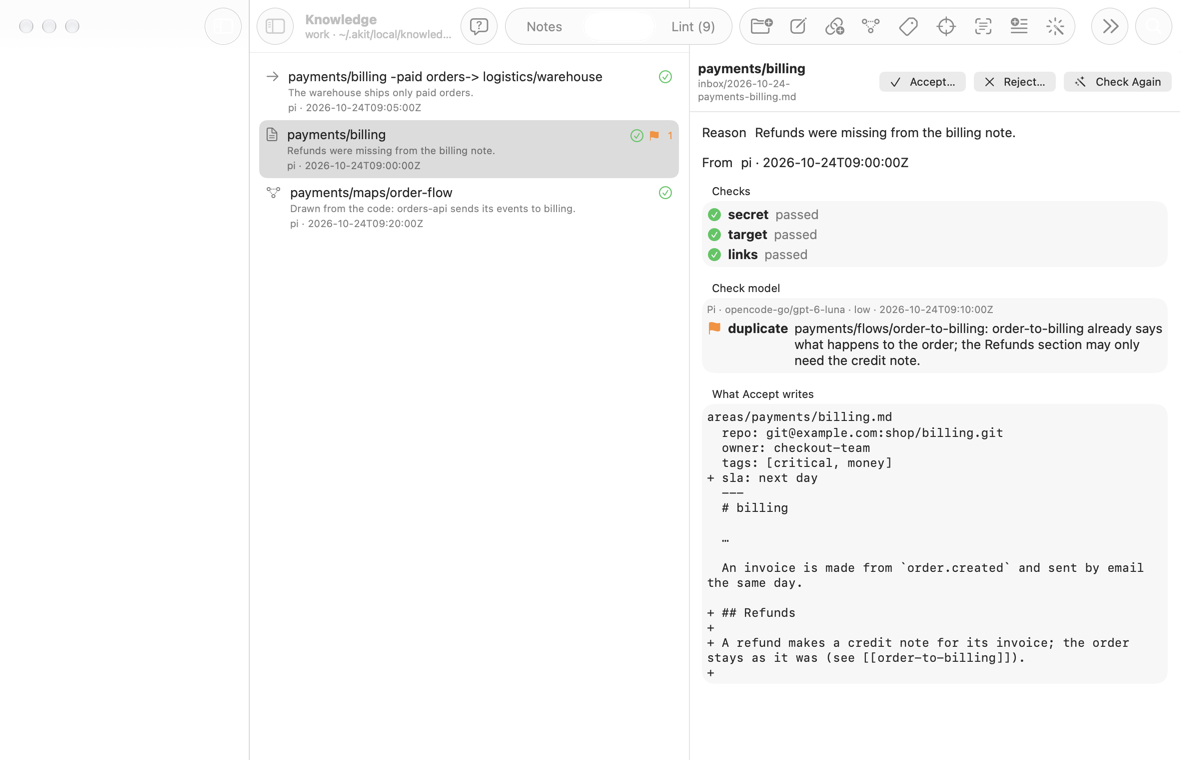
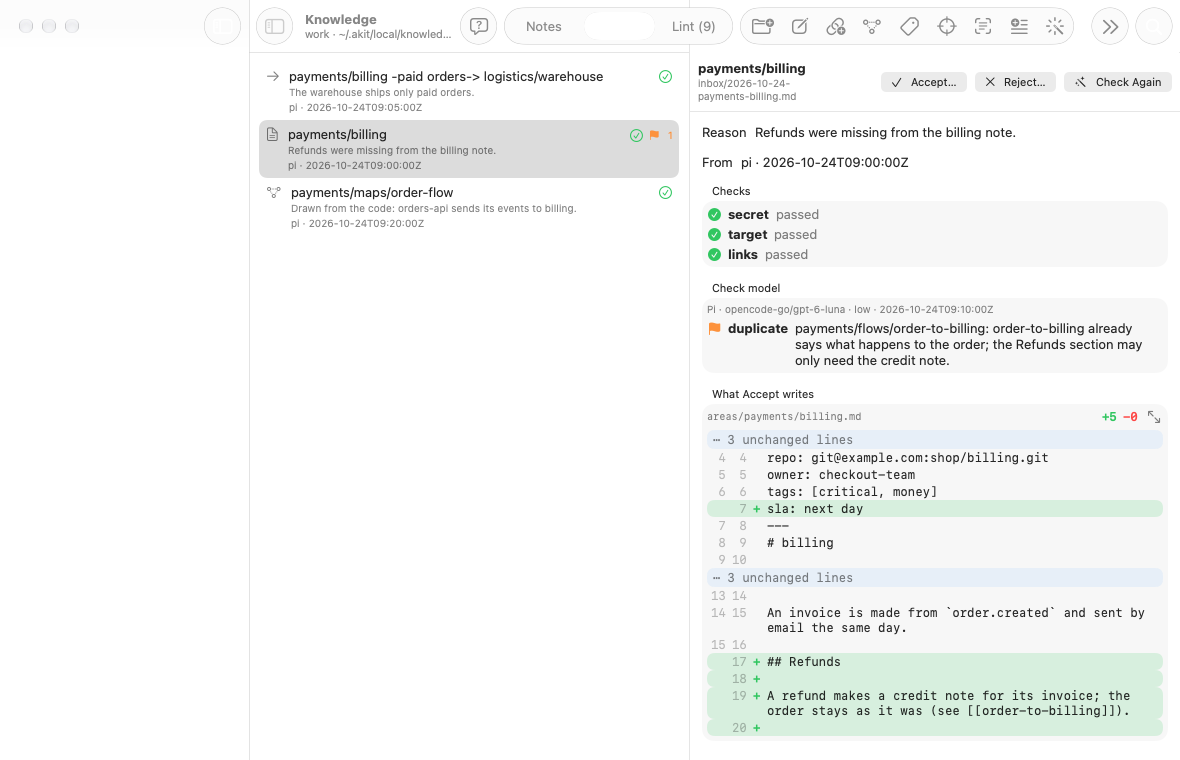
Inbox: coloured git-style diff and Open Diff Window
The proposal's change was plain text with + and - signs, hard to read.
Now added lines are green, removed red, with line numbers and folded
unchanged runs, in the Inbox, Accept Proposal and the Ask Pi card.
Open Diff Window shows it in its own window (Changes or Whole Note,
text size), to read on a large screen.

diff --git a/AKit/Knowledge/ProposalDiffView.swift b/AKit/Knowledge/ProposalDiffView.swift
@@ -1,0 +1,221 @@
+import AKitFoundation
+import AKitKnowledge
+import SwiftUI
+
+/// What Accept of a note proposal changes, as the diff window shows it: the note's text now and
+/// the text Accept writes. Codable, so Open Diff Window can pass it to its own window.
+struct ProposalDiff: Codable, Hashable {
+    let title: String
+    let path: String
+    let old: String
+    let new: String
+
+    init(title: String, plan: KnowledgeInbox.Plan) {
+        self.title = title
+        path = plan.original == nil ? "\(plan.notePath) (new" + (plan.newArea ? ", in a new area" : "") + ")" : plan.notePath
+        old = plan.original.flatMap { String(data: $0, encoding: .utf8) } ?? ""
+        new = plan.planned
+    }
+
+    var lines: [TextDiff.Line] { TextDiff.lines(from: old, to: new) }
+}
+
+/// A diff coloured like git: added lines green with +, removed lines red with −, unchanged ones
+/// plain, each with its line number before and after. Changes only: 3 unchanged lines around each
+/// change, the rest folded into "⋯ N unchanged lines"; whole: every line of the note.
+struct ColoredDiffView: View {
+    let lines: [TextDiff.Line]
+    var whole = false
+    var font: Font = .callout.monospaced()
+
+    enum Row: Hashable {
+        case line(TextDiff.Line, old: Int?, new: Int?)
+        case gap(Int)
+    }
+
+    var body: some View {
+        let rows = Self.rows(lines, whole: whole)
+        let digits = String(max(lines.count, 1)).count
+        LazyVStack(alignment: .leading, spacing: 0) {
+            ForEach(Array(rows.enumerated()), id: \.offset) { _, row in
+                switch row {
+                case .line(let line, let old, let new):
+                    DiffLineRow(line: line, old: old, new: new, digits: digits)
+                case .gap(let count):
+                    Text("⋯ \(count) unchanged line\(count == 1 ? "" : "s")")
+                        .foregroundStyle(.secondary)
+                        .padding(.vertical, 2)
+                        .padding(.leading, 6)
+                        .frame(maxWidth: .infinity, alignment: .leading)
+                        .background(.blue.opacity(0.08))
+                }
+            }
+        }
+        .font(font)
+    }
+
+    /// The rows to show, with line numbers counted over the whole diff.
+    static func rows(_ lines: [TextDiff.Line], whole: Bool) -> [Row] {
+        var numbered: [Row] = []
+        var old = 0, new = 0
+        for line in lines {
+            switch line {
+            case .same: old += 1; new += 1; numbered.append(.line(line, old: old, new: new))
+            case .removed: old += 1; numbered.append(.line(line, old: old, new: nil))
+            case .added: new += 1; numbered.append(.line(line, old: nil, new: new))
+            }
+        }
+        if whole { return numbered }
+        let changed = lines.indices.filter { if case .same = lines[$0] { false } else { true } }
+        var shown = Set<Int>()
+        for index in changed { shown.formUnion(max(0, index - 3)...min(lines.count - 1, index + 3)) }
+        var rows: [Row] = []
+        var hidden = 0
+        for index in lines.indices {
+            if shown.contains(index) {
+                if hidden > 0 { rows.append(.gap(hidden)); hidden = 0 }
+                rows.append(numbered[index])
+            } else {
+                hidden += 1
+            }
+        }
+        if hidden > 0, !rows.isEmpty { rows.append(.gap(hidden)) }
+        return rows
+    }
+
+    /// Added and removed line counts, for "+3 −1".
+    static func counts(_ lines: [TextDiff.Line]) -> (added: Int, removed: Int) {
+        lines.reduce(into: (0, 0)) { counts, line in
+            switch line {
+            case .added: counts.0 += 1
+            case .removed: counts.1 += 1
+            case .same: break
+            }
+        }
+    }
+}
+
+private struct DiffLineRow: View {
+    let line: TextDiff.Line
+    let old: Int?
+    let new: Int?
+    let digits: Int
+
+    var body: some View {
+        let (sign, text, tint): (String, String, Color?) = switch line {
+        case .same(let text): (" ", text, nil)
+        case .added(let text): ("+", text, .green)
+        case .removed(let text): ("−", text, .red)
+        }
+        HStack(alignment: .firstTextBaseline, spacing: 0) {
+            Text(number(old)).foregroundStyle(.tertiary)
+            Text(number(new)).foregroundStyle(.tertiary).padding(.leading, 6)
+            Text(sign).foregroundStyle(tint ?? .secondary).bold().padding(.horizontal, 6)
+            // An empty line keeps its height.
+            Text(text.isEmpty ? " " : text)
+                .textSelection(.enabled)
+                .frame(maxWidth: .infinity, alignment: .leading)
+        }
+        .padding(.vertical, 1)
+        .padding(.leading, 4)
+        .background(tint.map { $0.opacity(0.16) } ?? .clear)
+    }
+
+    private func number(_ value: Int?) -> String {
+        let text = value.map(String.init) ?? ""
+        return String(repeating: " ", count: max(0, digits - text.count)) + text
+    }
+}
+
+/// "+3 −1": the added lines in green, the removed ones in red.
+struct DiffCounts: View {
+    let lines: [TextDiff.Line]
+
+    var body: some View {
+        let counts = ColoredDiffView.counts(lines)
+        HStack(spacing: 6) {
+            Text("+\(counts.added)").foregroundStyle(.green)
+            Text("−\(counts.removed)").foregroundStyle(.red)
+        }
+        .font(.callout.monospaced().bold())
+        .help("\(counts.added) line\(counts.added == 1 ? "" : "s") added, \(counts.removed) removed")
+    }
+}
+
+/// Open Diff Window: the proposal's diff in its own window, big enough to read; Changes or
+/// Whole Note, and a larger or smaller text.
+struct ProposalDiffWindow: View {
+    static let id = "proposal-diff"
+    let diff: ProposalDiff
+    @AppStorage("proposalDiffWhole") private var whole = false
+    @AppStorage("proposalDiffSize") private var size = 14.0
+
+    var body: some View {
+        let lines = diff.lines
+        VStack(spacing: 0) {
+            HStack(spacing: 12) {
+                VStack(alignment: .leading, spacing: 1) {
+                    Text(diff.title).font(.headline).lineLimit(1)
+                    Text(diff.path).font(.caption.monospaced()).foregroundStyle(.secondary).textSelection(.enabled)
+                }
+                Spacer()
+                DiffCounts(lines: lines)
+                Picker("Show", selection: $whole) {
+                    Text("Changes").tag(false)
+                    Text("Whole Note").tag(true)
+                }
+                .pickerStyle(.segmented)
+                .labelsHidden()
+                .fixedSize()
+                .help("Changes: the changed lines with 3 lines around them. Whole Note: every line of the note, the changes marked")
+                ControlGroup {
+                    Button("Smaller Text", systemImage: "textformat.size.smaller") { size = max(10, size - 1) }
+                        .keyboardShortcut("-")
+                    Button("Larger Text", systemImage: "textformat.size.larger") { size = min(28, size + 1) }
+                        .keyboardShortcut("=")
+                }
+                .fixedSize()
+                .help("Smaller (⌘−) or larger (⌘=) text")
+            }
+            .padding(10)
+            Divider()
+            ScrollView {
+                ColoredDiffView(lines: lines, whole: whole, font: .system(size: size, design: .monospaced))
+                    .padding(8)
+            }
+        }
+        .frame(minWidth: 600, minHeight: 400)
+        .navigationTitle(diff.title)
+    }
+}
+
+/// A note proposal's diff in a panel: the note's path, "+3 −1", Open Diff Window, and the
+/// coloured changes.
+struct ProposalDiffBox: View {
+    @Environment(\.openWindow) private var openWindow
+    let diff: ProposalDiff
+    var font: Font = .callout.monospaced()
+
+    init(title: String, plan: KnowledgeInbox.Plan, font: Font = .callout.monospaced()) {
+        diff = ProposalDiff(title: title, plan: plan)
+        self.font = font
+    }
+
+    var body: some View {
+        let lines = diff.lines
+        VStack(alignment: .leading, spacing: 6) {
+            HStack(spacing: 8) {
+                Text(diff.path).font(.caption.monospaced()).foregroundStyle(.secondary).textSelection(.enabled)
+                Spacer()
+                DiffCounts(lines: lines)
+                Button("Open Diff Window", systemImage: "arrow.up.left.and.arrow.down.right") {
+                    openWindow(id: ProposalDiffWindow.id, value: diff)
+                }
+                .labelStyle(.iconOnly)
+                .buttonStyle(.borderless)
+                .help("Open the diff in its own window, to read it on a large screen")
+            }
+            ColoredDiffView(lines: lines, font: font)
+        }
+    }
+}

diff --git a/AKit/Knowledge/InboxPanel.swift b/AKit/Knowledge/InboxPanel.swift
@@ -12,7 +12,10 @@ struct InboxPanel: View {
 
     var body: some View {
         @Bindable var model = model
-        if model.proposals.isEmpty {
+        // Open Diff Window can't be captured; snapshots `--tab inbox-diff` show it here.
+        if DebugSnapshot.options?.tab == "inbox-diff", let entry = model.selectedProposal, case .success(let plan)? = model.acceptPlan(entry) {
+            ProposalDiffWindow(diff: ProposalDiff(title: proposalTitle(entry), plan: plan))
+        } else if model.proposals.isEmpty {
             ContentUnavailableView("No proposals", systemImage: "tray",
                                    description: Text("An agent proposes a change with akit kb propose: a section of a note, a new note, or an arrow for a map. It waits here until you accept or reject it."))
         } else {
@@ -165,7 +168,7 @@ private struct ProposalDetail: View {
                         GroupBox(entry.kind == .arrow ? "Arrow" : "What Accept writes") {
                             Group {
                                 switch plan {
-                                case .success(let plan)?: Text(plan.diff).font(.callout.monospaced())
+                                case .success(let plan)?: ProposalDiffBox(title: proposalTitle(entry), plan: plan)
                                 case .failure(let error)?: Text(error.message).foregroundStyle(.red)
                                 case nil:
                                     if let arrow = entry.arrow {
@@ -308,12 +311,9 @@ struct AcceptProposalSheet: View {
                 .foregroundStyle(.secondary).fixedSize(horizontal: false, vertical: true)
             GroupBox {
                 ScrollView {
-                    Text(plan.diff)
-                        .font(.callout.monospaced())
-                        .textSelection(.enabled)
-                        .frame(maxWidth: .infinity, alignment: .leading)
+                    ProposalDiffBox(title: plan.note, plan: plan)
                 }
-                .frame(height: 240)
+                .frame(minHeight: 240, idealHeight: 420, maxHeight: .infinity)
             } label: {
                 Text("Changes")
             }
@@ -333,7 +333,7 @@ struct AcceptProposalSheet: View {
             }
         }
         .padding(20)
-        .frame(width: 620)
+        .frame(minWidth: 620, idealWidth: 820, maxWidth: .infinity)
     }
 }
 

diff --git a/AKit/AKitApp.swift b/AKit/AKitApp.swift
@@ -148,6 +148,14 @@ struct AKitApp: App {
                 .environment(guides)
         }
         .defaultSize(width: 820, height: 860)
+
+        // Open Diff Window of an Inbox proposal: its diff, big enough to read. Not restored at
+        // launch: the proposal may be gone by then.
+        WindowGroup("Proposal Diff", id: ProposalDiffWindow.id, for: ProposalDiff.self) { $diff in
+            if let diff { ProposalDiffWindow(diff: diff) }
+        }
+        .defaultSize(width: 1100, height: 860)
+        .restorationBehavior(.disabled)
     }
 }
 

diff --git a/AKit/Knowledge/KnowledgeAskPanel.swift b/AKit/Knowledge/KnowledgeAskPanel.swift
@@ -282,8 +282,7 @@ private struct AskProposalCard: View {
                 switch plan {
                 case .success(let plan)?:
                     ScrollView {
-                        Text(plan.diff).font(.caption.monospaced()).textSelection(.enabled)
-                            .frame(maxWidth: .infinity, alignment: .leading)
+                        ProposalDiffBox(title: plan.note, plan: plan, font: .caption.monospaced())
                     }
                     .frame(maxHeight: 160)
                 case .failure(let error)?:
